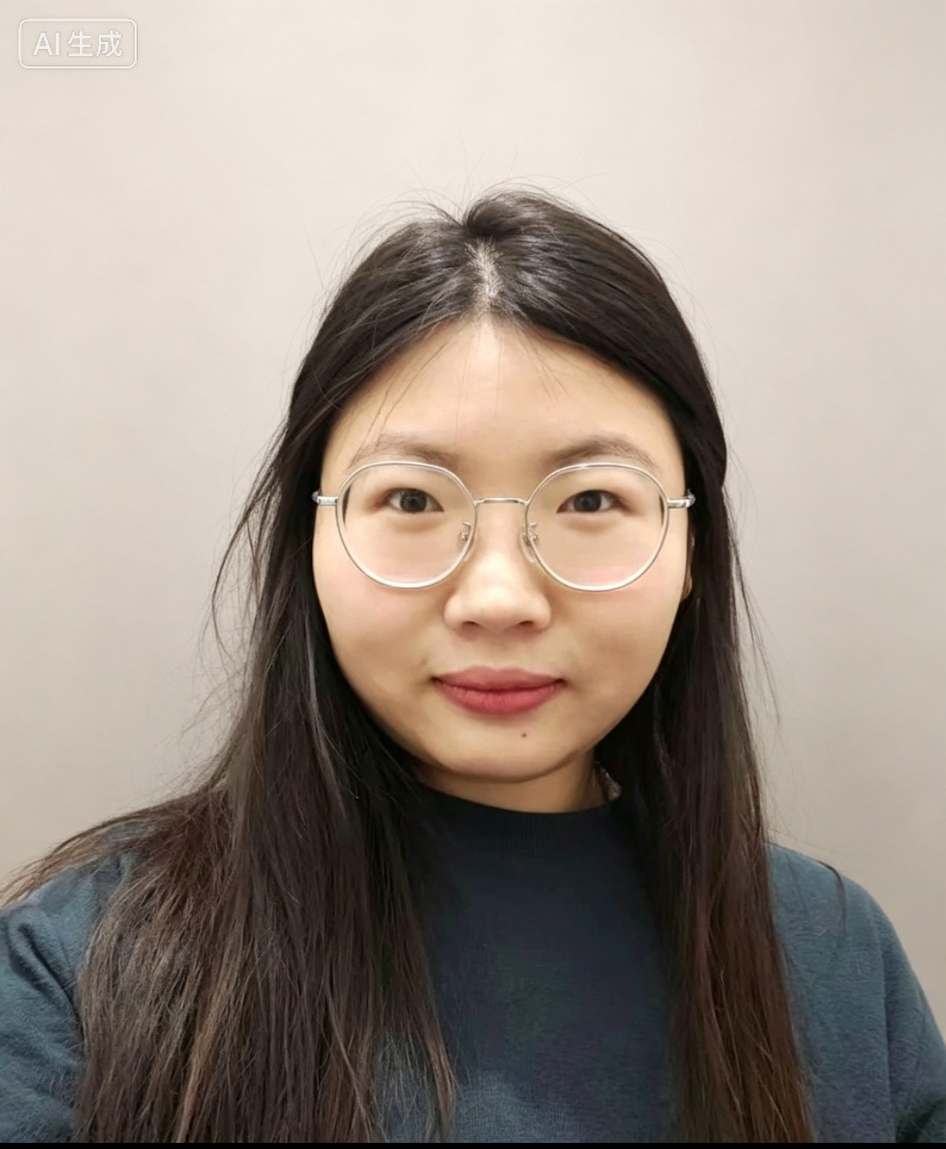
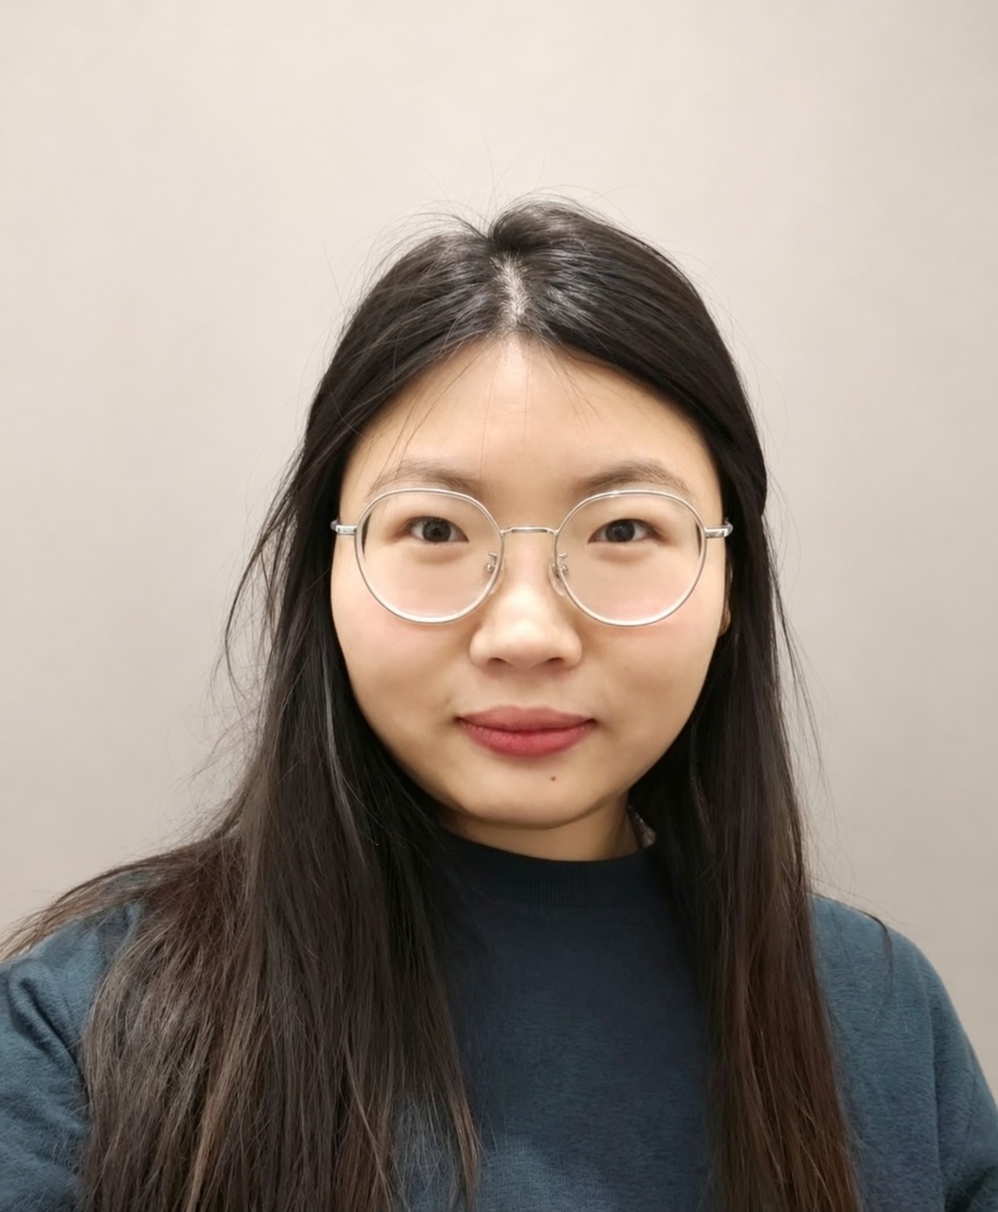
更新图片和底纹

diff --git a/index.html b/index.html
@@ -4,7 +4,10 @@
 <link rel="icon" type="image/png" sizes="32x32" href="assets/images/favicon-32x32.png">
 <link rel="apple-touch-icon" href="assets/images/apple-touch-icon.png">
 <link rel="manifest" href="site.webmanifest"><link rel="stylesheet" href="css/style.css"><link rel="stylesheet" href="css/content.css"></head>
-<body><a class="skip-link" href="#main">Skip to content</a><div class="wrap">
+<body class="home-page"><div class="home-textures" aria-hidden="true">
+<img class="home-texture home-texture--crack" src="assets/images/crack-mesh.png" alt="" width="3000" height="3000">
+<img class="home-texture home-texture--brain" src="assets/images/brain.png" alt="" width="1351" height="1224">
+</div><a class="skip-link" href="#main">Skip to content</a><div class="wrap">
 <header><a class="brand" href="index.html">Zheng (Rose) Luo</a><nav aria-label="Main navigation"><a href="index.html" aria-current="page">About</a><a href="projects.html">Research</a><a href="interests.html">Interests</a><a href="blog.html">Writing</a><a href="notes.html">Notes</a><a href="assets/pdfs/Zheng_Luo_CV.pdf?v=1a2bfbb5044d" target="_blank" rel="noopener">CV <span class="file-label">(PDF)</span></a></nav></header>
 <main id="main"><section class="hero"><div class="hero-layout"><div><p class="eyebrow">Brain computation · Learning · NeuroAI</p><h1 id="zheng-luo">Zheng Luo</h1>
 <p class="lead">I want to understand how brains compute, learn and adapt—and use those insights to build better artificial intelligence.</p>
@@ -19,5 +22,5 @@
 <a class="textlink" href="interests.html">Explore my research interests</a></div></section><section aria-labelledby="selected-heading"><div class="section-title"><h2 id="selected-heading">Selected research</h2><a class="textlink" href="projects.html">All projects</a></div><article class="feature"><figure class="feature-media"><img src="assets/images/research/electrical-field.png" alt="Electrostatic simulation around a prescribed conducting tip"><figcaption>Electrostatic simulation around a prescribed conducting tip.</figcaption></figure><div class="feature-copy"><p class="eyebrow">Theory, computation and experiment</p><h2>Electrical Failure and Defect Tolerance</h2><p>Connecting energetic theories of electrical failure with controlled defects, reproducible fabrication and measurements of material response.</p><a class="textlink" href="posts/projects/dielectric-breakdown-theory.html">Read the research story</a></div></article><div class="research-pair"><article class="small-project"><img loading="lazy" src="assets/images/research/neuroeff.jpeg" alt="Archived neuroEFF MATLAB interface"><div><p class="meta">2019–2020</p><h2><a href="posts/projects/neuroeff.html">neuroEFF — Neuronal Information and Energy Measures</a></h2>
 <p>A MATLAB tool for studying how temperature, noise and stimulus intensity affect information and energy measures in a conductance-based cortical neuron model.</p><p class="meta">Earlier computational research · Conference paper</p><a class="textlink" href="posts/projects/neuroeff.html">Read the project</a></div></article><article class="small-project"><img loading="lazy" src="assets/images/research/polymer-response.png" alt="Representative tensile-response curves for four polymer formulations"><div><p class="meta">2022–present</p><h2><a href="posts/projects/polymer-network-phase-diagram.html">Polymer Networks and Mechanical Response</a></h2>
 <p>Investigating how composition, preparation history and loading conditions shape the response of polymer networks.</p><p class="meta">Doctoral research · Working manuscripts</p><a class="textlink" href="posts/projects/polymer-network-phase-diagram.html">Read the project</a></div></article></div></section><section class="below"><div><h2>Research writing</h2><ul><li><a href="posts/blog/2026-08-17-Griffith-nc2025.html">Distilling Bayesian Priors into Neural Networks</a></li><li><a href="posts/blog/2026-07-25-solvent-history.html">What a Polymer Network Remembers About Its Preparation</a></li></ul></div><div><h2>Small discoveries</h2><p>Observations, sketches and open questions recorded along the way.</p><p><a href="notes.html">Browse my personal notes</a></p></div></section></main>
-<footer><span>Zheng (Rose) Luo</span><a href="mailto:rose.zheng.luo@gmail.com">rose.zheng.luo@gmail.com</a><a href="notes.html">Personal notes</a></footer>
+<footer><span>Zheng (Rose) Luo</span><a href="mailto:rose.zheng.luo@gmail.com">rose.zheng.luo@gmail.com</a><a href="notes.html">Personal notes</a><span class="illustration-credit"><a href="posts/notes/2026-08-25-brain-sign-with-bo-wen.html">Brain illustration by Bo wen</a></span></footer>
 </div></body></html>

diff --git a/projects.html b/projects.html
@@ -10,7 +10,7 @@
 <p>My work spans physical systems and computational neuroscience. Across these projects, I have developed models, implemented simulations, designed experiments and worked with collaborators to examine what the evidence can support.</p>
 <p>The projects below distinguish my completed earlier work, ongoing doctoral research and research-assistant contributions. My proposed directions in neuroscience and AI are described separately in <a href="interests.html">Research interests</a>.</p></div><article class="portfolio-row"><div class="portfolio-image"><img loading="lazy" src="assets/images/research/electrical-field.png" alt="Electrostatic simulation around a prescribed conducting tip"></div><div><p class="meta">2023–present</p><h2><a href="posts/projects/dielectric-breakdown-theory.html">Electrical Failure and Defect Tolerance</a></h2>
 <p>Connecting energetic theories of electrical failure with controlled defects, reproducible fabrication and measurements of material response.</p><p class="meta">Doctoral research · Working manuscripts</p><a class="textlink" href="posts/projects/dielectric-breakdown-theory.html">Read the project</a></div></article><article class="portfolio-row"><div class="portfolio-image"><img loading="lazy" src="assets/images/research/neuroeff.jpeg" alt="Archived neuroEFF MATLAB interface"></div><div><p class="meta">2019–2020</p><h2><a href="posts/projects/neuroeff.html">neuroEFF — Neuronal Information and Energy Measures</a></h2>
-<p>A MATLAB tool for studying how temperature, noise and stimulus intensity affect information and energy measures in a conductance-based cortical neuron model.</p><p class="meta">Earlier computational research · Conference paper</p><a class="textlink" href="posts/projects/neuroeff.html">Read the project</a></div></article><article class="portfolio-row"><div class="portfolio-image"></div><div><p class="meta">2020–2021</p><h2><a href="posts/projects/astrocyte-potassium-dynamics.html">Potassium Dynamics in an Astrocyte Chain</a></h2>
+<p>A MATLAB tool for studying how temperature, noise and stimulus intensity affect information and energy measures in a conductance-based cortical neuron model.</p><p class="meta">Earlier computational research · Conference paper</p><a class="textlink" href="posts/projects/neuroeff.html">Read the project</a></div></article><article class="portfolio-row"><div class="portfolio-image"><img loading="lazy" src="assets/images/research/astrocyte-equations.png" alt="Coupled equations for potassium transport, osmolarity and volume dynamics in the astrocyte model."></div><div><p class="meta">2020–2021</p><h2><a href="posts/projects/astrocyte-potassium-dynamics.html">Potassium Dynamics in an Astrocyte Chain</a></h2>
 <p>A self-initiated modelling project comparing candidate explanations of AQP4-associated potassium dynamics through coupled ODE–PDE simulations.</p><p class="meta">Earlier computational research · Conference presentation</p><a class="textlink" href="posts/projects/astrocyte-potassium-dynamics.html">Read the project</a></div></article><article class="portfolio-row"><div class="portfolio-image"><img loading="lazy" src="assets/images/research/polymer-response.png" alt="Representative tensile-response curves for four polymer formulations"></div><div><p class="meta">2022–present</p><h2><a href="posts/projects/polymer-network-phase-diagram.html">Polymer Networks and Mechanical Response</a></h2>
 <p>Investigating how composition, preparation history and loading conditions shape the response of polymer networks.</p><p class="meta">Doctoral research · Working manuscripts</p><a class="textlink" href="posts/projects/polymer-network-phase-diagram.html">Read the project</a></div></article><article class="portfolio-row"><div class="portfolio-image"></div><div><p class="meta">2023–2024</p><h2><a href="posts/projects/cultural-tendencies-llm.html">Cultural Tendencies in Large Language Models</a></h2>
 <p>Volunteer research assistance evaluating model-generated responses and reviewing measures of cultural orientation.</p><p class="meta">Volunteer research assistance</p><a class="textlink" href="posts/projects/cultural-tendencies-llm.html">Read the project</a></div></article><section class="prose publications"><h2 id="earlier-publications-and-conference-work">Earlier publications and conference work</h2>

diff --git a/research.html b/research.html
@@ -10,7 +10,7 @@
 <p>My work spans physical systems and computational neuroscience. Across these projects, I have developed models, implemented simulations, designed experiments and worked with collaborators to examine what the evidence can support.</p>
 <p>The projects below distinguish my completed earlier work, ongoing doctoral research and research-assistant contributions. My proposed directions in neuroscience and AI are described separately in <a href="interests.html">Research interests</a>.</p></div><article class="portfolio-row"><div class="portfolio-image"><img loading="lazy" src="assets/images/research/electrical-field.png" alt="Electrostatic simulation around a prescribed conducting tip"></div><div><p class="meta">2023–present</p><h2><a href="posts/projects/dielectric-breakdown-theory.html">Electrical Failure and Defect Tolerance</a></h2>
 <p>Connecting energetic theories of electrical failure with controlled defects, reproducible fabrication and measurements of material response.</p><p class="meta">Doctoral research · Working manuscripts</p><a class="textlink" href="posts/projects/dielectric-breakdown-theory.html">Read the project</a></div></article><article class="portfolio-row"><div class="portfolio-image"><img loading="lazy" src="assets/images/research/neuroeff.jpeg" alt="Archived neuroEFF MATLAB interface"></div><div><p class="meta">2019–2020</p><h2><a href="posts/projects/neuroeff.html">neuroEFF — Neuronal Information and Energy Measures</a></h2>
-<p>A MATLAB tool for studying how temperature, noise and stimulus intensity affect information and energy measures in a conductance-based cortical neuron model.</p><p class="meta">Earlier computational research · Conference paper</p><a class="textlink" href="posts/projects/neuroeff.html">Read the project</a></div></article><article class="portfolio-row"><div class="portfolio-image"></div><div><p class="meta">2020–2021</p><h2><a href="posts/projects/astrocyte-potassium-dynamics.html">Potassium Dynamics in an Astrocyte Chain</a></h2>
+<p>A MATLAB tool for studying how temperature, noise and stimulus intensity affect information and energy measures in a conductance-based cortical neuron model.</p><p class="meta">Earlier computational research · Conference paper</p><a class="textlink" href="posts/projects/neuroeff.html">Read the project</a></div></article><article class="portfolio-row"><div class="portfolio-image"><img loading="lazy" src="assets/images/research/astrocyte-equations.png" alt="Coupled equations for potassium transport, osmolarity and volume dynamics in the astrocyte model."></div><div><p class="meta">2020–2021</p><h2><a href="posts/projects/astrocyte-potassium-dynamics.html">Potassium Dynamics in an Astrocyte Chain</a></h2>
 <p>A self-initiated modelling project comparing candidate explanations of AQP4-associated potassium dynamics through coupled ODE–PDE simulations.</p><p class="meta">Earlier computational research · Conference presentation</p><a class="textlink" href="posts/projects/astrocyte-potassium-dynamics.html">Read the project</a></div></article><article class="portfolio-row"><div class="portfolio-image"><img loading="lazy" src="assets/images/research/polymer-response.png" alt="Representative tensile-response curves for four polymer formulations"></div><div><p class="meta">2022–present</p><h2><a href="posts/projects/polymer-network-phase-diagram.html">Polymer Networks and Mechanical Response</a></h2>
 <p>Investigating how composition, preparation history and loading conditions shape the response of polymer networks.</p><p class="meta">Doctoral research · Working manuscripts</p><a class="textlink" href="posts/projects/polymer-network-phase-diagram.html">Read the project</a></div></article><article class="portfolio-row"><div class="portfolio-image"></div><div><p class="meta">2023–2024</p><h2><a href="posts/projects/cultural-tendencies-llm.html">Cultural Tendencies in Large Language Models</a></h2>
 <p>Volunteer research assistance evaluating model-generated responses and reviewing measures of cultural orientation.</p><p class="meta">Volunteer research assistance</p><a class="textlink" href="posts/projects/cultural-tendencies-llm.html">Read the project</a></div></article><section class="prose publications"><h2 id="earlier-publications-and-conference-work">Earlier publications and conference work</h2>

diff --git a/posts/projects/astrocyte-potassium-dynamics.html b/posts/projects/astrocyte-potassium-dynamics.html
@@ -22,6 +22,13 @@
 <p>The project asked how changes in water permeability, neuronal potassium release and extracellular-space volume could contribute to differences in potassium dynamics.</p>
 <h2 id="extending-the-computational-setting">Extending the computational setting</h2>
 <p>I extended a published astrocyte model to a one-dimensional chain and implemented coupled ordinary and partial differential equations in MATLAB. Controlled simulations provided a way to vary candidate factors and compare their consequences within the model's assumptions.</p>
+<figure class="equation-figure">
+  <a href="../../assets/images/research/astrocyte-equations.png" target="_blank" rel="noopener" aria-label="Open the complete model equations at full resolution">
+    <img src="../../assets/images/research/astrocyte-equations.png" alt="Original equation table from my project report, linking membrane potential, potassium and water fluxes, spatial diffusion, osmolarity and cell-volume dynamics, with boundary conditions." loading="lazy" width="1312" height="1186">
+  </a>
+  <figcaption>The coupled model, reproduced from my original project report. The equations connect potassium transport, osmolarity and volume dynamics; boundary conditions define exchange across the modelled space. My work extended a published model and implemented the coupled system in MATLAB. <a href="../../assets/images/research/astrocyte-equations.png" target="_blank" rel="noopener">View the full-size equation table</a>.</figcaption>
+</figure>
+
 <p>The chain formulation allowed spatial relationships to enter the question, but remained a simplified description. In particular, the work did not implement the complete set of potassium-return and spatial-buffering processes. These omissions matter when relating the simulations to physiological clearance.</p>
 <h2 id="my-contribution">My contribution</h2>
 <p>I identified the question through independent reading, conceived the project, led the team, and carried out the principal modelling, programming and analysis. The project received National-Level support from the National Undergraduate Innovation and Entrepreneurship Training Program and was presented at ICVE 2021.</p>

diff --git a/css/content.css b/css/content.css
@@ -5,6 +5,16 @@ img{max-width:100%}
 .skip-link{position:absolute;left:1rem;top:-100px;background:white;padding:12px;z-index:10}
 .skip-link:focus{top:1rem}
 .hero{max-width:none;padding-top:55px}
+.home-page{position:relative;isolation:isolate}
+.home-textures{position:absolute;inset:0 0 auto;height:1000px;overflow:hidden;pointer-events:none;z-index:-1}
+.home-texture{position:absolute;height:auto;object-fit:contain}
+.home-texture--crack{width:440px;max-width:none;top:115px;left:calc(50% - 760px);opacity:.26;filter:saturate(.6);mask-image:linear-gradient(to right,#000 12%,rgba(0,0,0,.65) 45%,transparent 95%)}
+.home-texture--brain{width:380px;max-width:none;top:480px;right:calc(50% - 760px);opacity:.18;mask-image:linear-gradient(to left,#000 12%,rgba(0,0,0,.65) 45%,transparent 95%)}
+.illustration-credit{flex-basis:100%;font-size:.875rem}
+.illustration-credit a{color:var(--muted)}
+@media(max-width:1150px){.home-texture--crack{width:300px;left:-125px;opacity:.2}.home-texture--brain{width:230px;right:-55px;opacity:.13}}
+@media(max-width:800px){.home-textures{display:none}}
+@media print{.home-textures{display:none}}
 .hero-layout{display:grid;grid-template-columns:minmax(0,1fr) 150px;gap:45px;align-items:start}
 .hero-layout .portrait{margin-top:48px;width:150px;height:180px;object-fit:cover;border-radius:5px}
 .hero-layout p:not(.eyebrow):not(.lead){color:var(--muted);margin-top:18px}
@@ -32,6 +42,7 @@ img{max-width:100%}
 .prose li p{margin:8px 0}
 .prose figure{margin:27px 0}
 .prose figure img{max-height:470px;object-fit:contain;background:white;border:1px solid var(--rule);padding:12px}
+.prose figure.equation-figure img{display:block;width:100%;height:auto;max-height:none}
 .prose figcaption{font-size:.875rem;color:var(--muted);line-height:1.6;margin-top:10px}
 .prose blockquote{font:1.13rem/1.7 Georgia,serif;border-left:3px solid var(--accent);padding:8px 0 8px 22px;margin:24px 0}
 .prose table{display:block;max-width:100%;overflow-x:auto;border-collapse:collapse;margin:24px 0}

diff --git a/posts/projects/cultural-tendencies-llm.html b/posts/projects/cultural-tendencies-llm.html
@@ -23,6 +23,7 @@
 <h2 id="related-publication">Related publication</h2>
 <p>The broader project was subsequently reported in:</p>
 <p>Lu, J. G., Song, L. L., &amp; Zhang, L. D. (2025). <em>Cultural tendencies in generative AI</em>. Nature Human Behaviour, 9, 2360–2369.</p>
-<p><a href="https://doi.org/10.1038/s41562-025-02242-1">Read the related publication</a>.</p></article></div><p class="back-link"><a href="../../projects.html">All research projects</a></p></main>
+<p><a href="https://doi.org/10.1038/s41562-025-02242-1">Read the related publication</a>.</p>
+<p>See <a href="https://www.nature.com/articles/s41562-025-02242-1#Fig1">Figure 1 in the publication</a> for comparisons of GPT's social-orientation responses to Chinese- and English-language prompts across four measures.</p></article></div><p class="back-link"><a href="../../projects.html">All research projects</a></p></main>
 <footer><span>Zheng (Rose) Luo</span><a href="mailto:rose.zheng.luo@gmail.com">rose.zheng.luo@gmail.com</a><a href="../../notes.html">Personal notes</a></footer>
 </div></body></html>

diff --git a/build.py b/build.py
@@ -53,22 +53,28 @@ def render_md(body, prefix=''):
     return result, md.toc, bool(math)
 
 
-def shell(title, content, active, prefix='', description='', math=False, lang='en'):
+def shell(title, content, active, prefix='', description='', math=False, lang='en', home=False):
     links = ''.join(f'<a href="{prefix}{url}"' + (' aria-current="page"' if url == active else '')
                     + f'>{label}</a>' for url, label in NAV)
     links += f'<a href="{cv_url(prefix)}" target="_blank" rel="noopener">CV <span class="file-label">(PDF)</span></a>'
     maths = r'''<script>window.MathJax={tex:{inlineMath:[['$','$'],['\\(','\\)']],displayMath:[['$$','$$'],['\\[','\\]']]}};</script>
 <script defer src="https://cdn.jsdelivr.net/npm/mathjax@3/es5/tex-mml-chtml.js"></script>''' if math else ''
+    body_class = ' class="home-page"' if home else ''
+    decoration = '''<div class="home-textures" aria-hidden="true">
+<img class="home-texture home-texture--crack" src="assets/images/crack-mesh.png" alt="" width="3000" height="3000">
+<img class="home-texture home-texture--brain" src="assets/images/brain.png" alt="" width="1351" height="1224">
+</div>''' if home else ''
+    illustration_credit = '<span class="illustration-credit"><a href="posts/notes/2026-08-25-brain-sign-with-bo-wen.html">Brain illustration by Bo wen</a></span>' if home else ''
     return f'''<!doctype html>
 <html lang="{lang}"><head><meta charset="utf-8"><meta name="viewport" content="width=device-width, initial-scale=1">
 <title>{escape(title)} | {NAME}</title><meta name="description" content="{escape(description, quote=True)}">
 <link rel="icon" type="image/png" sizes="32x32" href="{prefix}assets/images/favicon-32x32.png">
 <link rel="apple-touch-icon" href="{prefix}assets/images/apple-touch-icon.png">
 <link rel="manifest" href="{prefix}site.webmanifest"><link rel="stylesheet" href="{prefix}css/style.css"><link rel="stylesheet" href="{prefix}css/content.css">{maths}</head>
-<body><a class="skip-link" href="#main">Skip to content</a><div class="wrap">
+<body{body_class}>{decoration}<a class="skip-link" href="#main">Skip to content</a><div class="wrap">
 <header><a class="brand" href="{prefix}index.html">{NAME}</a><nav aria-label="Main navigation">{links}</nav></header>
 <main id="main">{content}</main>
-<footer><span>{NAME}</span><a href="mailto:{EMAIL}">{EMAIL}</a><a href="{prefix}notes.html">Personal notes</a></footer>
+<footer><span>{NAME}</span><a href="mailto:{EMAIL}">{EMAIL}</a><a href="{prefix}notes.html">Personal notes</a>{illustration_credit}</footer>
 </div></body></html>\n'''
 
 
@@ -194,7 +200,7 @@ def build_all():
     selected += '<div class="research-pair">' + ''.join(project_card(by_slug[slug], True) for slug in ('neuroeff', 'polymer-network-phase-diagram') if slug in by_slug) + '</div></section>'
     writing_links = ''.join(f'<li><a href="{i["link"]}">{escape(i["title"])}</a></li>' for i in blogs[:2])
     below = f'''<section class="below"><div><h2>Research writing</h2><ul>{writing_links}</ul></div><div><h2>Small discoveries</h2><p>Observations, sketches and open questions recorded along the way.</p><p><a href="notes.html">Browse my personal notes</a></p></div></section>'''
-    write('index.html', shell('About', hero + research_direction() + selected + below, 'index.html', description=meta['description']))
+    write('index.html', shell('About', hero + research_direction() + selected + below, 'index.html', description=meta['description'], home=True))
     write('electrical-failure.html', shell('Electrical failure', '<div class="page-title"><h1>Electrical failure and defect tolerance</h1><p><a href="posts/projects/dielectric-breakdown-theory.html">Read the full research project</a></p></div>', 'projects.html'))
     print(f'Built home, research, interests, writing and notes; {len(projects)} projects, {len(blogs)} articles, {len(notes)} notes.')
 

diff --git a/posts/projects/astrocyte-potassium-dynamics.md b/posts/projects/astrocyte-potassium-dynamics.md
@@ -6,6 +6,8 @@ excerpt: A self-initiated modelling project comparing candidate explanations of 
 tags: Astrocytes · AQP4 · Potassium dynamics · ODE–PDE modelling
 period: 2020–2021
 order: 3
+image: assets/images/research/astrocyte-equations.png
+image_alt: Coupled equations for potassium transport, osmolarity and volume dynamics in the astrocyte model.
 status: Earlier computational research · Conference presentation
 ---
 
@@ -22,6 +24,13 @@ The project asked how changes in water permeability, neuronal potassium release 
 ## Extending the computational setting
 
 I extended a published astrocyte model to a one-dimensional chain and implemented coupled ordinary and partial differential equations in MATLAB. Controlled simulations provided a way to vary candidate factors and compare their consequences within the model's assumptions.
+
+<figure class="equation-figure">
+  <a href="/assets/images/research/astrocyte-equations.png" target="_blank" rel="noopener" aria-label="Open the complete model equations at full resolution">
+    <img src="/assets/images/research/astrocyte-equations.png" alt="Original equation table from my project report, linking membrane potential, potassium and water fluxes, spatial diffusion, osmolarity and cell-volume dynamics, with boundary conditions." loading="lazy" width="1312" height="1186">
+  </a>
+  <figcaption>The coupled model, reproduced from my original project report. The equations connect potassium transport, osmolarity and volume dynamics; boundary conditions define exchange across the modelled space. My work extended a published model and implemented the coupled system in MATLAB. <a href="/assets/images/research/astrocyte-equations.png" target="_blank" rel="noopener">View the full-size equation table</a>.</figcaption>
+</figure>
 
 The chain formulation allowed spatial relationships to enter the question, but remained a simplified description. In particular, the work did not implement the complete set of potassium-return and spatial-buffering processes. These omissions matter when relating the simulations to physiological clearance.
 

diff --git a/README.md b/README.md
@@ -89,6 +89,12 @@ tags: Learning · Research notes
 
 带图注的研究图可以保留现有 `<figure>` 格式，其余内容用普通 Markdown 即可。复制同目录文章中的图片路径最方便。
 
+## 首页暗纹与项目图片
+
+首页继续使用原有的 `assets/images/crack-mesh.png` 和 `assets/images/brain.png`，作为两侧的淡色暗纹。原图未修改；位置、透明度和渐隐效果在 `css/content.css` 的 `.home-texture` 样式中调整。屏幕宽度不超过 800px 时隐藏暗纹，保持手机阅读清晰。首页页脚保留插画作者 Bo wen 的署名，并链接到原来的创作短札。
+
+星形胶质细胞项目使用原结题报告的完整方程表：`assets/images/research/astrocyte-equations.png`。Research 列表显示预览，项目详情可点击查看原尺寸。LLM 项保留文字介绍，详情页提供相关论文 Figure 1 的来源链接。
+
 ## 草稿与历史内容
 
 `draft: true` 会阻止文章出现在列表中，并移除这篇文章旧的生成 HTML。Markdown 仍在仓库中：**公开 GitHub 仓库里的 Markdown 不是私人存储空间**。真正不准备公开的内容应留在仓库之外。

diff --git a/posts/projects/cultural-tendencies-llm.md b/posts/projects/cultural-tendencies-llm.md
@@ -30,3 +30,5 @@ The broader project was subsequently reported in:
 Lu, J. G., Song, L. L., & Zhang, L. D. (2025). *Cultural tendencies in generative AI*. Nature Human Behaviour, 9, 2360–2369.
 
 [Read the related publication](https://doi.org/10.1038/s41562-025-02242-1).
+
+See [Figure 1 in the publication](https://www.nature.com/articles/s41562-025-02242-1#Fig1) for comparisons of GPT's social-orientation responses to Chinese- and English-language prompts across four measures.
